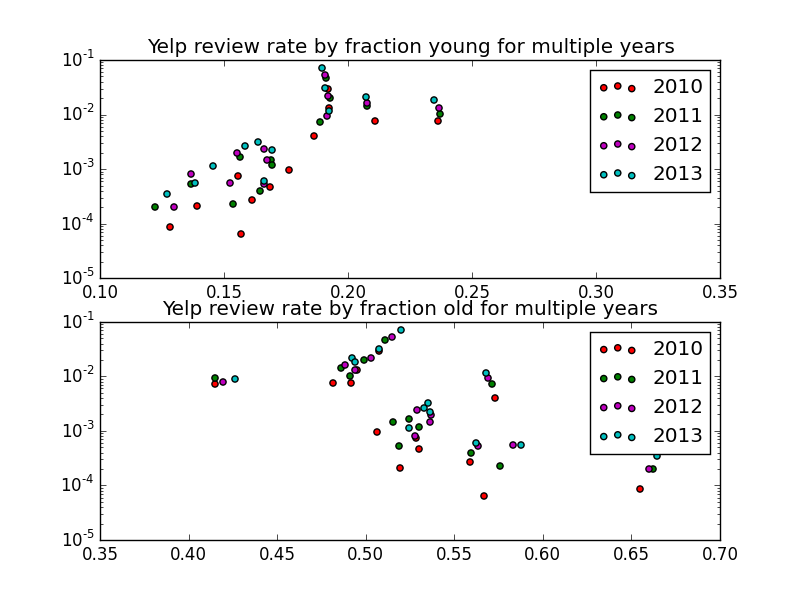
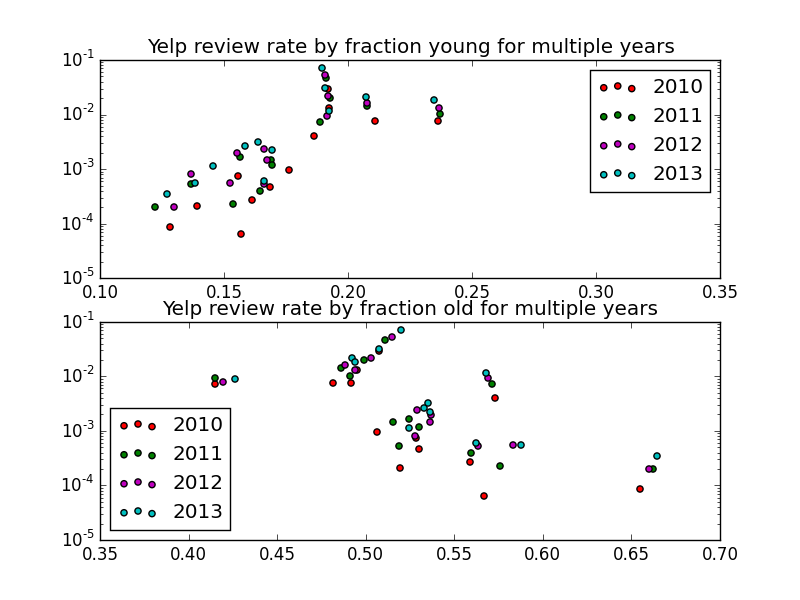
moved legend

Changed region(s): [[0.7188, 0.54, 0.9062, 0.78], [0.125, 0.66, 0.3125, 0.9]]

diff --git a/mvp.py b/mvp.py
@@ -124,7 +124,7 @@ for (y, color) in zip(range(2010, 2014), 'rgmc'):
     ax[0].scatter(cy.young, cy.reviews, c=color, label=str(y))
     ax[1].scatter(cy.old,   cy.reviews, c=color, label=str(y))
 ax[0].legend()
-ax[1].legend()
+ax[1].legend(loc=3)
 ax[0].set_title("Yelp review rate by fraction young for multiple years" + wolv)
 ax[1].set_title("Yelp review rate by fraction old for multiple years" + wolv)
 
